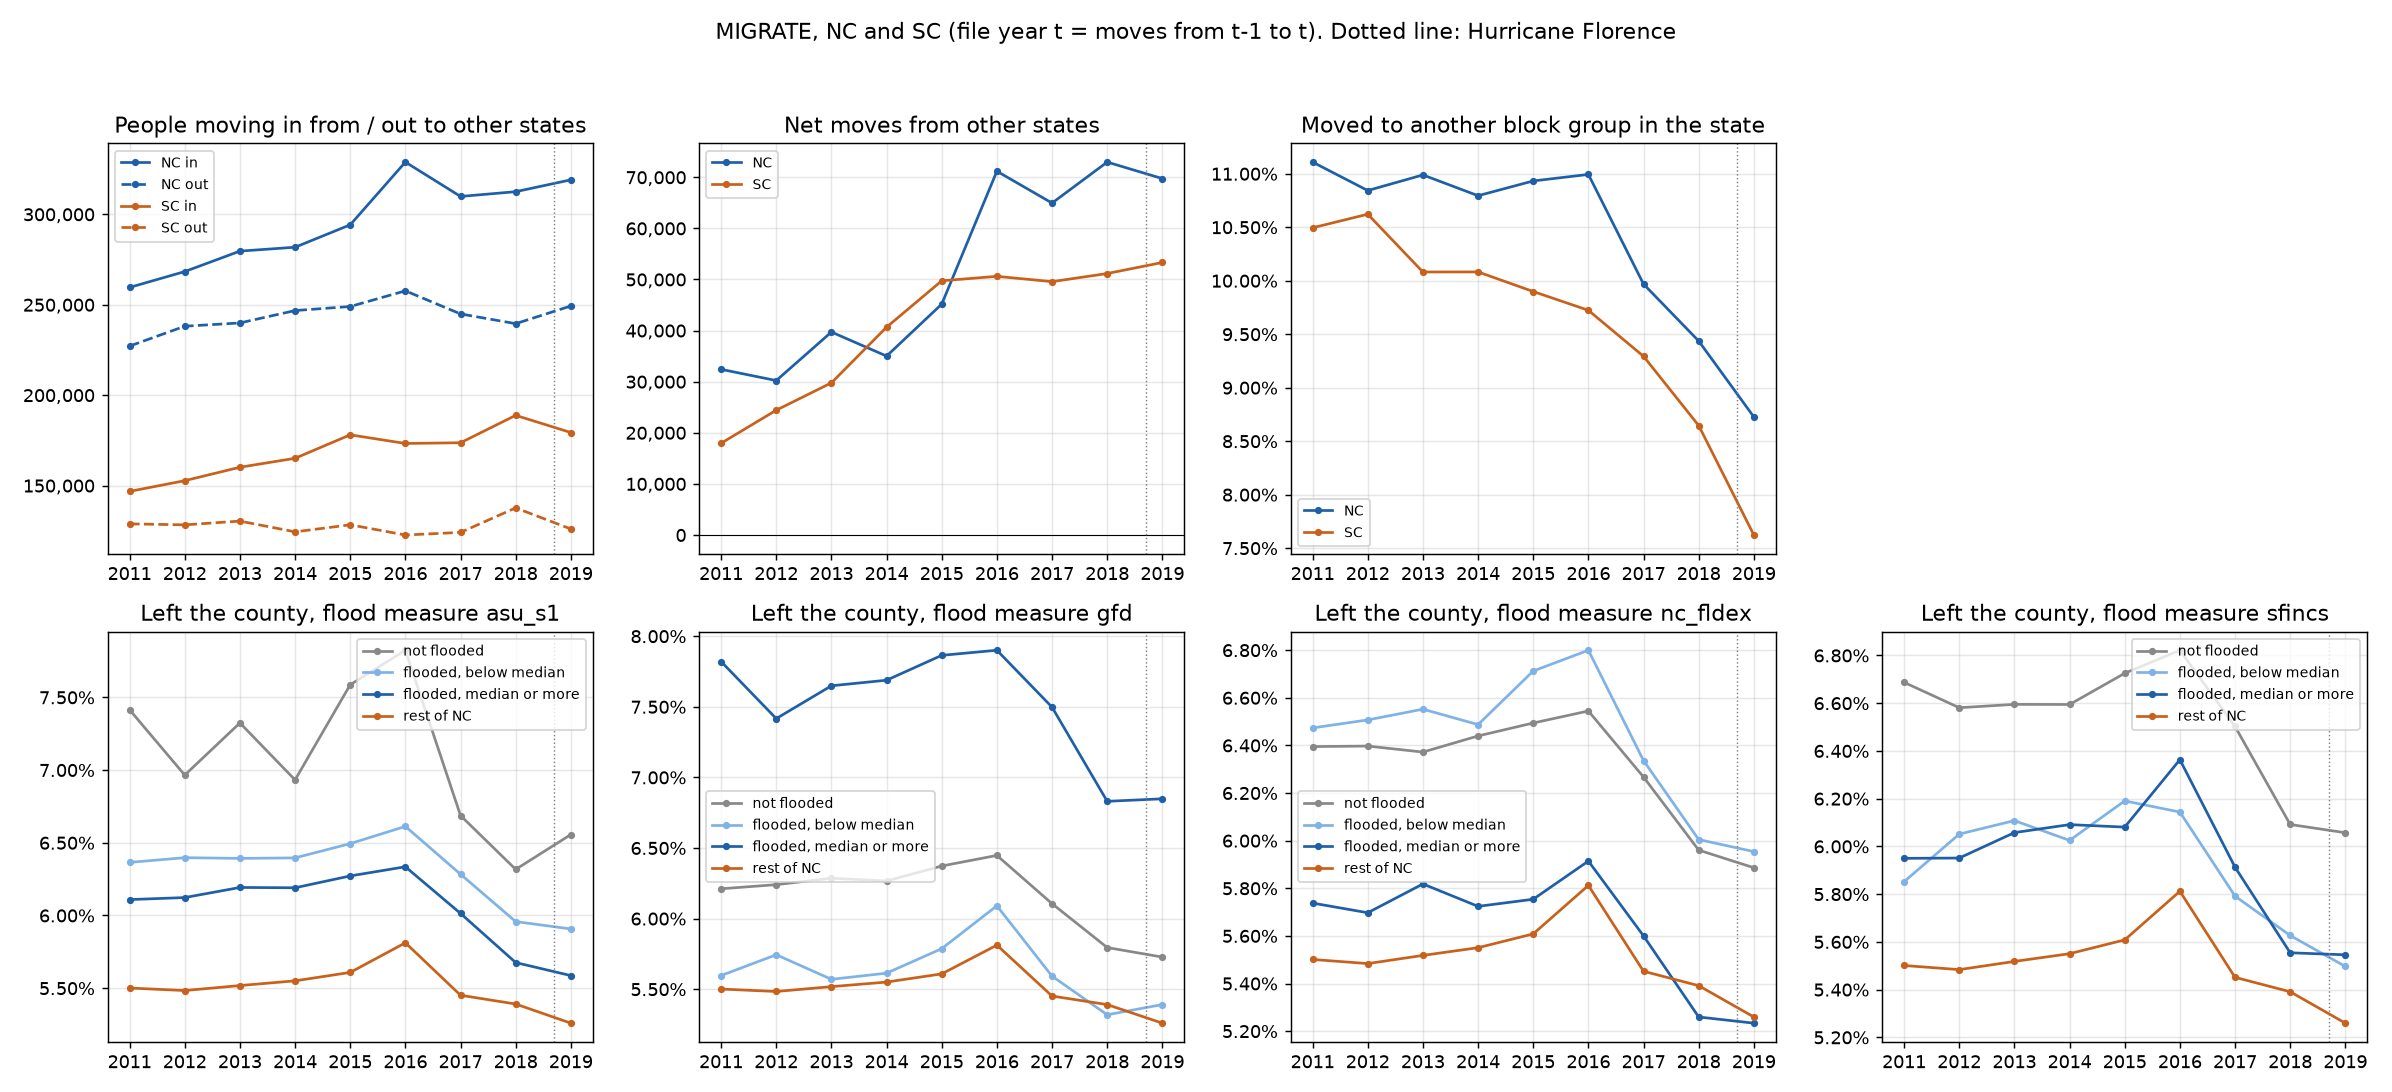
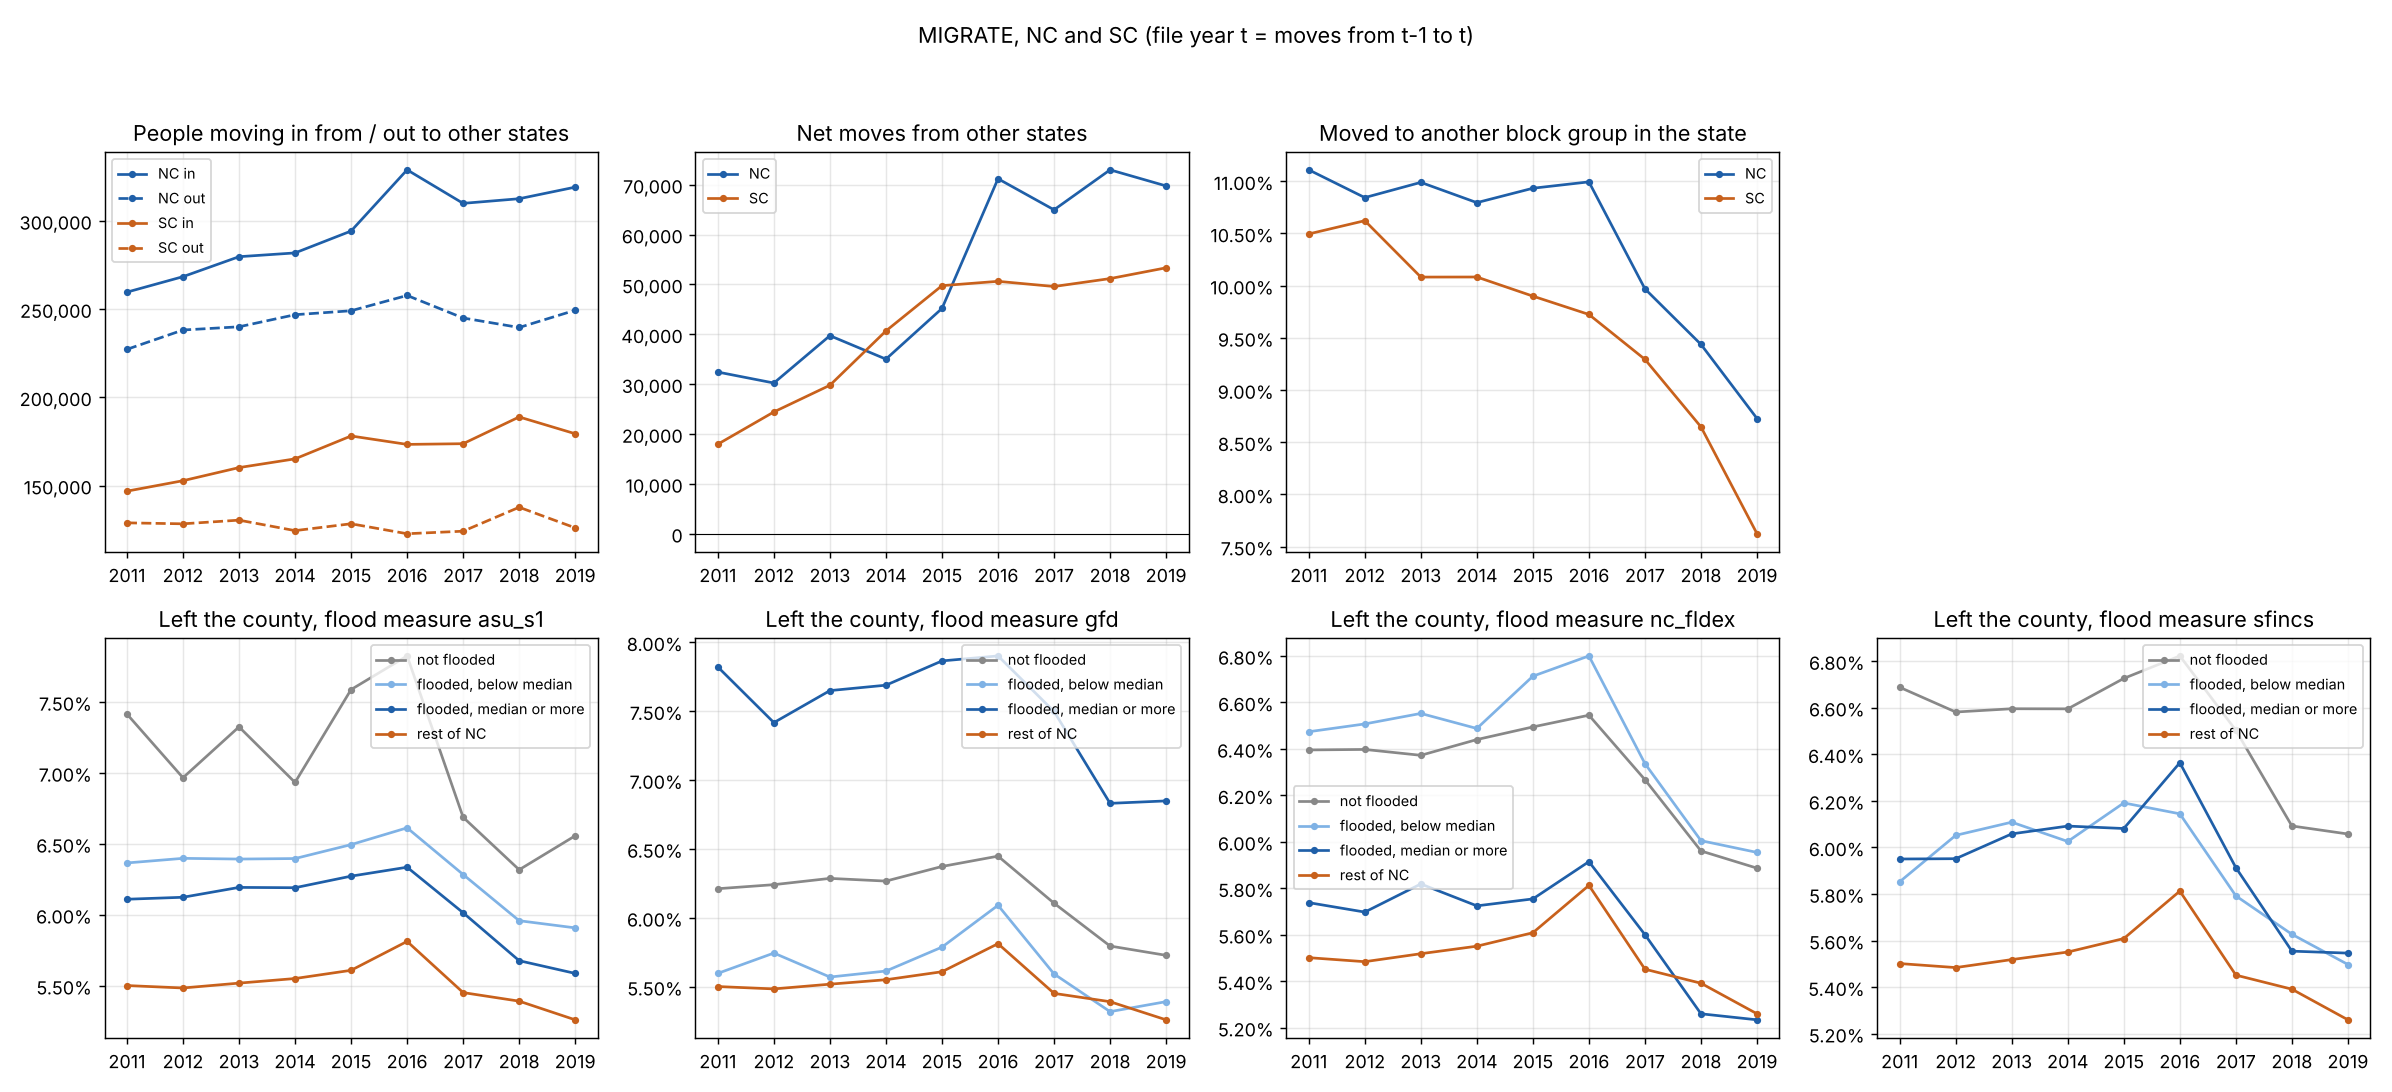
Figures: drop the Hurricane Florence line and title note
The demographic trends, panel and MIGRATE figures are descriptive, so they
no longer draw the dotted Florence line or mention it in the title. The three
figures are redrawn from the tables already in output/tables (no rerun).

Claude-Session: https://claude.ai/code/session_01Ph8eQPDALPc2Ah5bwGQ28Q

diff --git a/scripts/06_demographics.py b/scripts/06_demographics.py
@@ -161,12 +161,10 @@ def plot_trends(state: pd.DataFrame, path: Path) -> None:
         # tick steps of 1, 2 or 5 (not 2.5), so whole-number labels are exact
         ax.yaxis.set_major_locator(matplotlib.ticker.MaxNLocator(steps=[1, 2, 5, 10]))
         ax.yaxis.set_major_formatter(matplotlib.ticker.FuncFormatter(lambda v, _, f=fmt: f.format(v)))
-        ax.axvline(2018.7, color="grey", lw=0.8, ls=":")
         ax.xaxis.set_major_locator(matplotlib.ticker.MaxNLocator(integer=True))
         ax.grid(alpha=0.3)
     axes.flat[0].legend(fontsize=8, loc="best")
-    fig.suptitle("infoUSA households (primary families) vs Census ACS, NC and SC. "
-                 "Dotted line: Hurricane Florence (Sept 2018)", fontsize=12)
+    fig.suptitle("infoUSA households (primary families) vs Census ACS, NC and SC", fontsize=12)
     fig.tight_layout(rect=(0, 0, 1, 0.95))
     fig.savefig(path, dpi=130)
     plt.close(fig)

diff --git a/scripts/08_panel.py b/scripts/08_panel.py
@@ -408,11 +408,9 @@ def plot(t: dict[str, pd.DataFrame], n_cohort: int, path: Path) -> None:
             ax.yaxis.set_major_formatter(pctf)
         ax.yaxis.set_major_locator(matplotlib.ticker.MaxNLocator(steps=[1, 2, 5, 10]))
         ax.xaxis.set_major_locator(matplotlib.ticker.MaxNLocator(integer=True))
-        ax.axvline(BASE_YEAR + 1.7, color="grey", lw=0.8, ls=":")
         ax.grid(alpha=0.3)
         ax.legend(fontsize=8, loc="best")
-    fig.suptitle("Household panel: households ever in NC/SC, followed across the US. "
-                 "Dotted line: Hurricane Florence (Sept 2018)", fontsize=12)
+    fig.suptitle("Household panel: households ever in NC/SC, followed across the US", fontsize=12)
     fig.tight_layout(rect=(0, 0, 1, 0.95))
     fig.savefig(path, dpi=130)
     plt.close(fig)

diff --git a/scripts/inspect/migrate_explore.py b/scripts/inspect/migrate_explore.py
@@ -204,11 +204,9 @@ def plot(summary: pd.DataFrame, groups: pd.DataFrame, path: Path) -> None:
     for ax in axes.flat:
         if ax.get_visible():
             ax.xaxis.set_major_locator(matplotlib.ticker.MaxNLocator(integer=True))
-            ax.axvline(2018.7, color="grey", lw=0.8, ls=":")
             ax.grid(alpha=0.3)
             ax.legend(fontsize=8, loc="best")
-    fig.suptitle("MIGRATE, NC and SC (file year t = moves from t-1 to t). Dotted line: Hurricane Florence",
-                 fontsize=12)
+    fig.suptitle("MIGRATE, NC and SC (file year t = moves from t-1 to t)", fontsize=12)
     fig.tight_layout(rect=(0, 0, 1, 0.95))
     fig.savefig(path, dpi=130)
     plt.close(fig)
